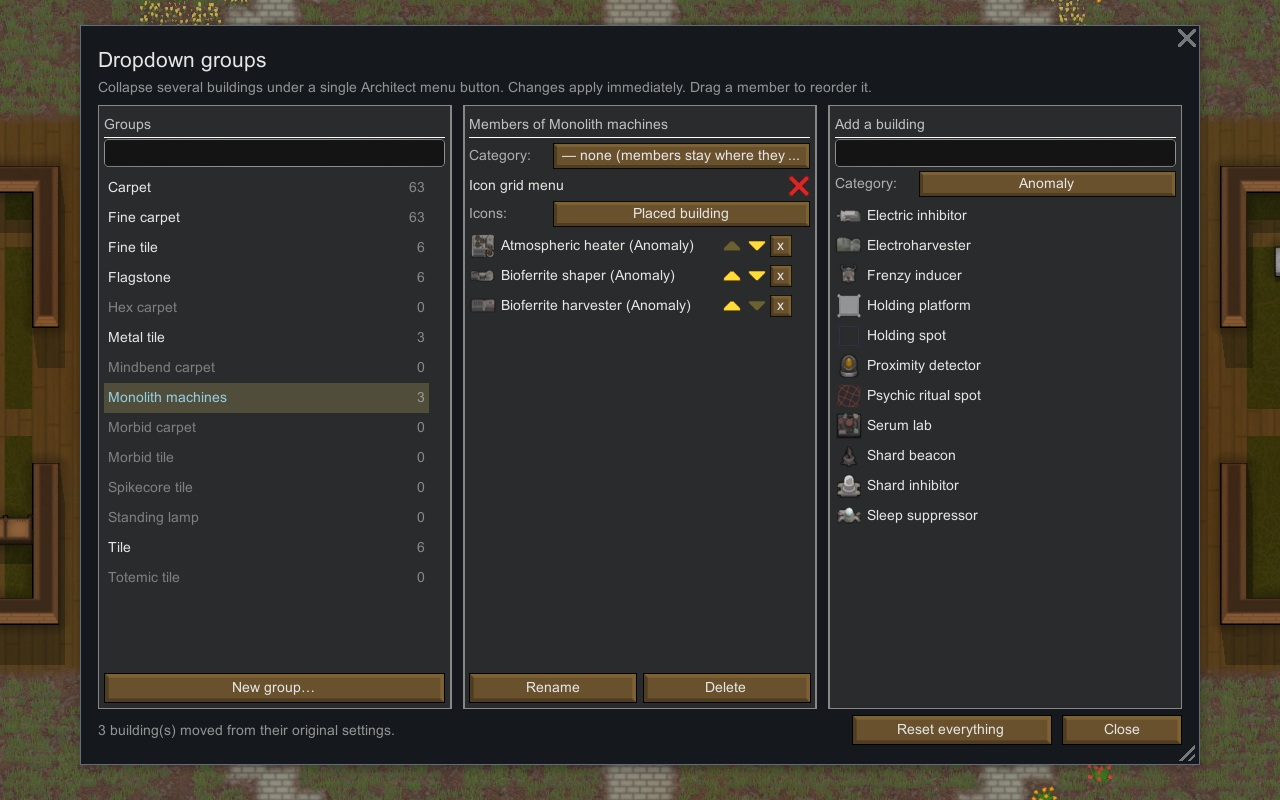
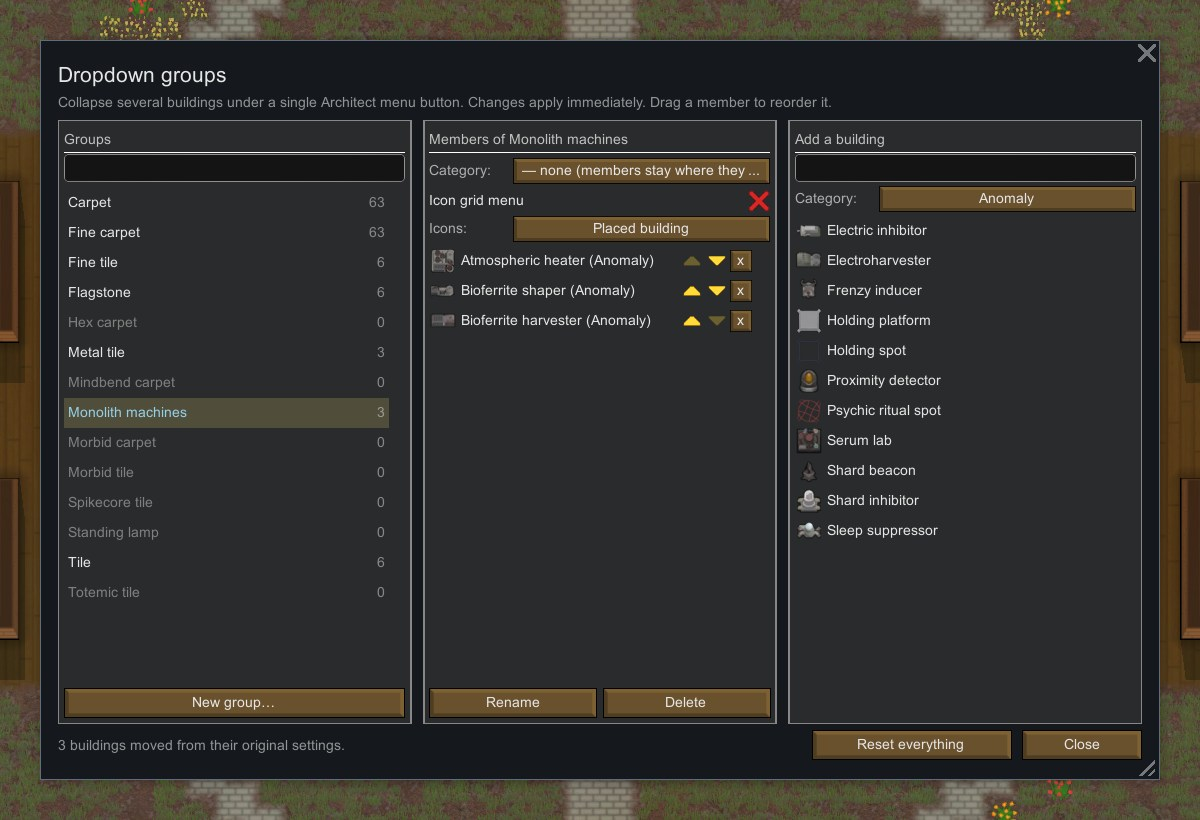
art(gallery): new crops of the groups, categories and settings captures
Counted-phrase wording and 'not detected' now shown.

Changed region(s): [[0.0, 0.0, 1.0, 1.0]]

diff --git a/PUBLICATION.md b/PUBLICATION.md
@@ -99,8 +99,8 @@ Menus and interface windows are shown as what they are, with no staged pawn.
 2. `Art/Gallery/2-categories.jpg` - **the category editor**: every category with its icon and building count, the empty ones greyed out, the up/down arrows among siblings.
 3. `Art/Gallery/3-settings.jpg` - **the settings page**: the two editors, the two toggles, the keyboard-shortcut hint and the detected integrations.
 
-The current 1 and 3 predate the counted-phrase and "not detected" wording; fresh captures are in
-`Tests/Pickle/Evidence/full-1001/gallery-en/` (not yet cropped or uploaded). A fourth scenario, the Architect menu with a group
+1, 2 and 3 were replaced on 2026-10-02 by crops of the captures in
+`Tests/Pickle/Evidence/full-1001/gallery-en/` (window plus 40 px, 1200x820, 700x800 and 980x780; not yet uploaded to Steam). A fourth scenario, the Architect menu with a group
 open, was added on 2026-10-02 and has not been played yet.
 
 ## Dependencies and DLC
